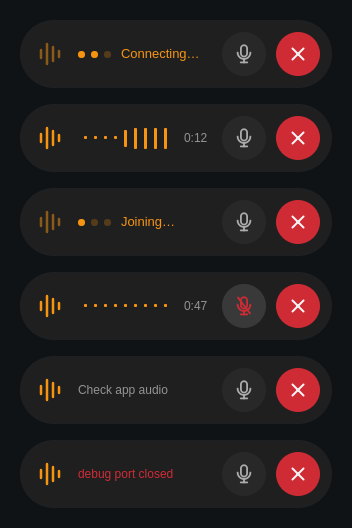
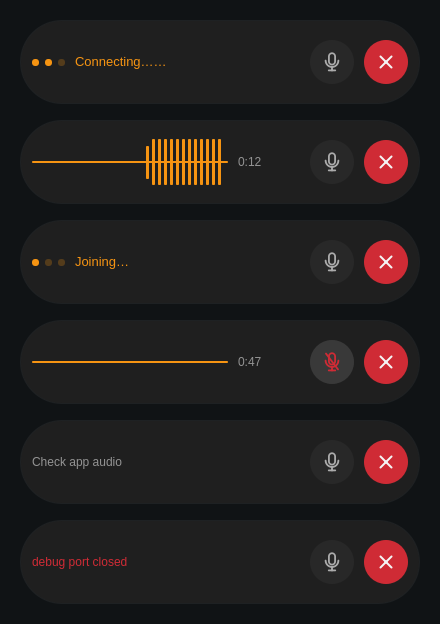
Enlarge voice peaks and verify the loaded panel version

diff --git a/Card.qml b/Card.qml
@@ -13,7 +13,9 @@ Rectangle {
     property int dots: 0
     property real peak: 0
     property real noiseFloorDb: -48
-    property var levels: [0, 0, 0, 0, 0, 0, 0, 0, 0]
+    property real peakDb: -24
+    property int silentFrames: 0
+    property var levels: Array(31).fill(0)
     property real seconds: 0
     property string errorText: ""
 
@@ -32,19 +34,24 @@ Rectangle {
     readonly property int gap: 10
     readonly property bool waveVisible: status === "live" && !connecting && !audioUnavailable
 
-    implicitWidth: 312
-    implicitHeight: 68
-    radius: 34
+    implicitWidth: 400
+    implicitHeight: 84
+    radius: 42
     color: surface
     border.width: 1
     border.color: "#10f5f5f5"
 
-    onWaveVisibleChanged: levels = [0, 0, 0, 0, 0, 0, 0, 0, 0]
+    onWaveVisibleChanged: levels = Array(31).fill(0)
     Timer {
-        interval: 40
+        interval: 16
         repeat: true
         running: card.visible && card.waveVisible
-        onTriggered: card.levels = card.levels.slice(1).concat([Call.voiceLevel(card.peak, card.noiseFloorDb)])
+        onTriggered: {
+            var level = Call.voiceLevel(card.peak, card.noiseFloorDb, card.peakDb)
+            if (level === 0 && card.silentFrames >= 4) return
+            card.silentFrames = level === 0 ? card.silentFrames + 1 : 0
+            card.levels = card.silentFrames >= 4 ? Array(31).fill(0) : card.levels.slice(1).concat([level])
+        }
     }
 
     Timer {
@@ -61,44 +68,30 @@ Rectangle {
         spacing: card.gap
 
         Item {
-            implicitWidth: 36
-            implicitHeight: 36
-            Shape {
-                anchors.centerIn: parent
-                width: 32
-                height: 32
-                opacity: card.connecting ? 0.5 : 1
-                ShapePath {
-                    strokeColor: card.ink
-                    strokeWidth: 2.5
-                    fillColor: "transparent"
-                    capStyle: ShapePath.RoundCap
-                    PathSvg { path: "M7 12v8M13 6v20M19 9v14M25 13v6" }
-                }
-            }
-        }
-
-        Item {
-            implicitWidth: 96
-            implicitHeight: 28
+            implicitWidth: 196
+            implicitHeight: 56
             visible: card.waveVisible
 
+            Rectangle {
+                anchors.centerIn: parent
+                width: parent.width
+                height: 2
+                radius: 1
+                color: card.ink
+            }
             Row {
                 anchors.centerIn: parent
-                spacing: 7
-
+                spacing: 3
                 Repeater {
-                    model: 9
-
+                    model: 31
                     Rectangle {
                         width: 3
                         radius: 1.5
                         color: card.ink
-                        implicitHeight: 3 + 25 * (card.levels[index] || 0)
+                        implicitHeight: 2 + 54 * (card.levels[index] || 0)
                         anchors.verticalCenter: parent.verticalCenter
-
                         Behavior on implicitHeight {
-                            NumberAnimation { duration: 40; easing.type: Easing.OutQuad }
+                            NumberAnimation { duration: 24; easing.type: Easing.OutQuad }
                         }
                     }
                 }
@@ -216,7 +209,7 @@ Rectangle {
             MouseArea {
                 anchors.fill: parent
                 cursorShape: Qt.PointingHandCursor
-                onClicked: card.hangUp()
+                onPressed: card.hangUp()
             }
         }
     }

diff --git a/Menu.qml b/Menu.qml
@@ -17,7 +17,7 @@ Item {
     property var session: Call.initial()
     property real seconds: 0
     property string processBinary: ""
-    property var audioConfig: ({ enabled: true, noiseFloorDb: -48 })
+    property var audioConfig: ({ enabled: true, noiseFloorDb: -48, peakDb: -24 })
 
     FileView {
         path: root.configPath
@@ -76,7 +76,7 @@ Item {
     Timer {
         interval: root.session.status === "live" && root.session.audio === "pending" ? 200 : 500
         repeat: true
-        running: root.session.opened && root.session.status !== "ended"
+        running: root.session.opened
         onTriggered: {
             if (startProc.running || stopProc.running || muteProc.running || statusProc.running) return
             statusProc.token = root.session.generation
@@ -124,6 +124,7 @@ Item {
     IpcHandler {
         target: "grokbot.voice"
         function ping(): string { return "ok" }
+        function version(): string { return Call.version() }
         function talk(): string { root.toggle(); return "ok" }
         function toggle(): string { root.toggle(); return "ok" }
         function call(): string { root.start(); return "ok" }
@@ -140,7 +141,7 @@ Item {
     }
     PanelWindow {
         id: win
-        visible: root.session.opened
+        visible: root.session.opened && ["calling", "live", "error"].indexOf(root.session.status) >= 0
         anchors.top: root.config.position === "top"
         anchors.bottom: root.config.position !== "top"
         anchors.left: true
@@ -163,6 +164,7 @@ Item {
             seconds: root.seconds
             peak: voice.peak
             noiseFloorDb: root.audioConfig.noiseFloorDb
+            peakDb: root.audioConfig.peakDb
             errorText: root.session.error
             surface: Commons.Color.background
             text: Commons.Color.foreground

diff --git a/lib/call.js b/lib/call.js
@@ -1,3 +1,5 @@
+function version() { return "1.0.1"; }
+
 function parseResult(text) {
     try {
         var value = JSON.parse(String(text || ""));
@@ -38,7 +40,7 @@ function complete(state, command, token, result, now) {
     }
     if (command === "stop" || (command === "status" && ["idle", "ended"].indexOf(result.phase) >= 0)) {
         next.opened = false;
-        next.status = "ended";
+        next.status = "idle";
         next.mayBeLive = false;
         next.startedAt = 0;
         next.error = "";
@@ -56,9 +58,10 @@ function duration(ms) {
     var seconds = Math.max(0, Math.floor(Number(ms || 0) / 1000));
     return Math.floor(seconds / 60) + ":" + (seconds % 60 < 10 ? "0" : "") + seconds % 60;
 }
-function voiceLevel(cubeRootPeak, noiseFloorDb) {
+function voiceLevel(cubeRootPeak, noiseFloorDb, peakDb) {
     if (!isFinite(cubeRootPeak) || cubeRootPeak <= 0) return 0;
     var amplitude = Math.pow(Math.min(1, cubeRootPeak), 3);
-    var db = 20 * Math.log(amplitude) / Math.LN10;
-    return Math.max(0, Math.min(1, (db - noiseFloorDb) / (-6 - noiseFloorDb)));
+    var floor = Math.pow(10, noiseFloorDb / 20);
+    var ceiling = Math.pow(10, peakDb / 20);
+    return Math.sqrt(Math.max(0, Math.min(1, (amplitude - floor) / (ceiling - floor))));
 }

diff --git a/tests/presentation.py b/tests/presentation.py
@@ -1,0 +1,60 @@
+#!/usr/bin/env python3
+import os
+from pathlib import Path
+import unittest
+
+os.environ["QT_QPA_PLATFORM"] = "offscreen"
+os.environ["QT_QUICK_BACKEND"] = "software"
+
+from PySide6.QtCore import QPoint, Qt, QUrl
+from PySide6.QtGui import QGuiApplication
+from PySide6.QtQuick import QQuickView
+from PySide6.QtTest import QTest
+
+APP = QGuiApplication([])
+
+
+class Presentation(unittest.TestCase):
+    def setUp(self):
+        self.view = QQuickView()
+        self.view.setSource(QUrl.fromLocalFile(str(Path(__file__).resolve().parent.parent / "Card.qml")))
+        self.assertEqual(self.view.status(), QQuickView.Status.Ready)
+        self.card = self.view.rootObject()
+        self.card.setProperty("status", "live")
+        self.view.setResizeMode(QQuickView.SizeRootObjectToView)
+        self.view.resize(round(self.card.width()), round(self.card.height()))
+        self.view.show()
+        QTest.qWait(80)
+
+    def tearDown(self):
+        self.view.close()
+        self.view.deleteLater()
+        APP.processEvents()
+
+    def wave_pixels(self):
+        image = self.view.grabWindow()
+        return [(x, y) for x in range(12, 208) for y in range(10, image.height() - 10)
+                if image.pixelColor(x, y).name() == "#f69412"]
+
+    def test_silence_is_a_flat_line_and_speech_uses_the_panel_height(self):
+        pixels = self.wave_pixels()
+        self.assertGreaterEqual(len({x for x, _ in pixels}), 190)
+        self.assertLessEqual(len({y for _, y in pixels}), 2)
+        self.card.setProperty("peak", 0.5)
+        QTest.qWait(600)
+        self.assertGreaterEqual(len({y for _, y in self.wave_pixels()}), 50)
+        self.card.setProperty("peak", 0)
+        QTest.qWait(150)
+        self.assertLessEqual(len({y for _, y in self.wave_pixels()}), 2)
+
+    def test_hangup_fires_on_press_before_release(self):
+        calls = []
+        self.card.hangUp.connect(lambda: calls.append(True))
+        point = QPoint(round(self.card.width()) - 34, round(self.card.height()) // 2)
+        QTest.mousePress(self.view, Qt.MouseButton.LeftButton, Qt.KeyboardModifier.NoModifier, point)
+        self.assertEqual(calls, [True])
+        QTest.mouseRelease(self.view, Qt.MouseButton.LeftButton, Qt.KeyboardModifier.NoModifier, point)
+
+
+if __name__ == "__main__":
+    unittest.main()

diff --git a/tests/render.py b/tests/render.py
@@ -13,7 +13,7 @@ from PySide6.QtGui import QColor, QGuiApplication, QImage, QPainter
 from PySide6.QtQuick import QQuickView
 from PySide6.QtTest import QTest
 
-WIDTH = 312
+WIDTH = 400
 PAD = 20
 GAP = 16
 BG = QColor("#101315")
@@ -31,7 +31,7 @@ BASE = {
 
 STATES = [
     {"status": "calling", "connecting": True, "dots": 2},
-    {"status": "live", "seconds": 12, "peak": 0.5},
+    {"status": "live", "seconds": 12, "peak": 0.35},
     {"status": "live", "seconds": 3, "connecting": True, "dots": 1},
     {"status": "live", "seconds": 47, "muted": True},
     {"status": "live", "audioUnavailable": True},
@@ -55,7 +55,7 @@ def render(app: QGuiApplication, card_path: Path) -> list[QImage]:
         for key, value in state.items():
             root.setProperty(key, value)
         view.setResizeMode(QQuickView.SizeRootObjectToView)
-        view.resize(WIDTH, 68)
+        view.resize(WIDTH, 84)
         view.show()
         QTest.qWait(240)
         shots.append(view.grabWindow())

diff --git a/README.md b/README.md
@@ -47,10 +47,12 @@ must match the launcher. `call.position` is `top` or `bottom`;
 `call.margin` is in pixels.
 
 The wave follows the call audio through PipeWire. `audio.noiseFloorDb` sets
-the silence threshold. Increase it to reject more background noise. The stream
+the silence threshold; `audio.peakDb` sets the level for full-height peaks. The stream
 check uses `pw-dump` and `app.processBinary`. Set `audio.enabled` to `false`
 to disable the wave and stream check. If the pill
 shows Check app audio, check the microphone and output in Grok Bot.
+
+After an update, end the call and run `grokbot-voice reload`.
 
 ## Remove
 
